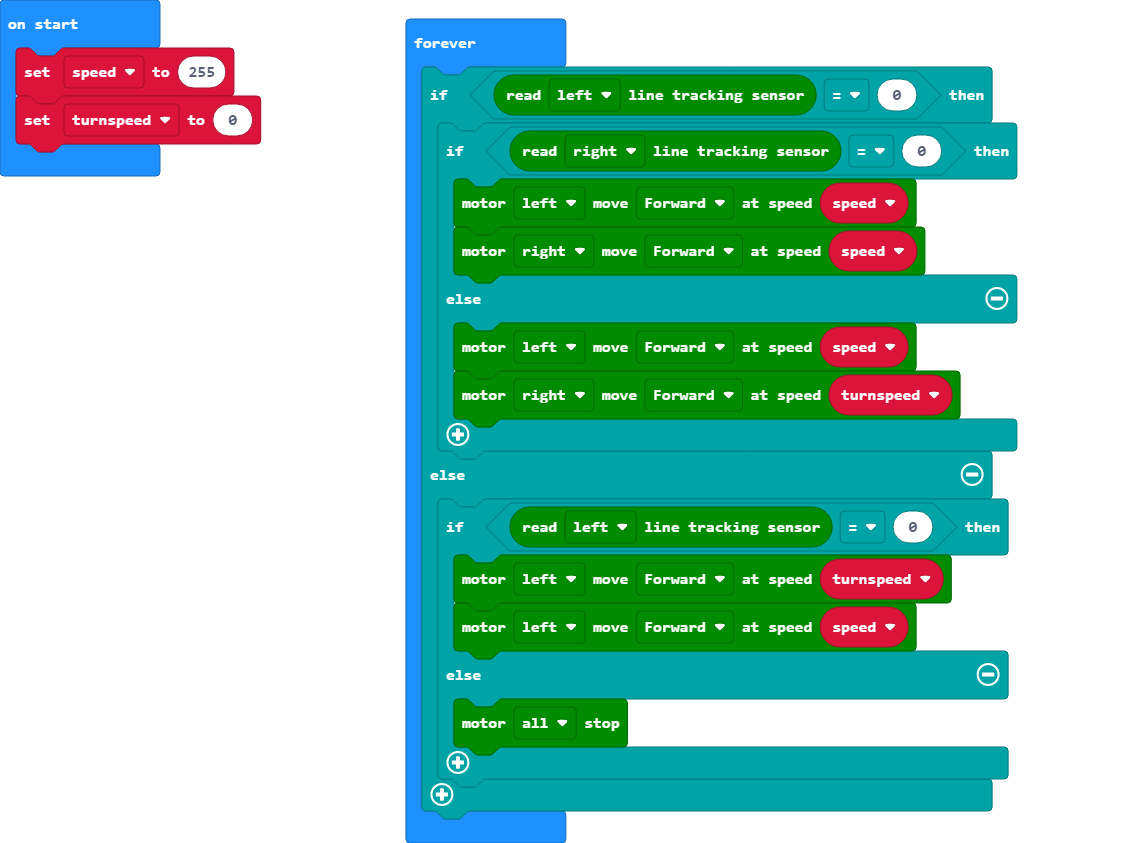
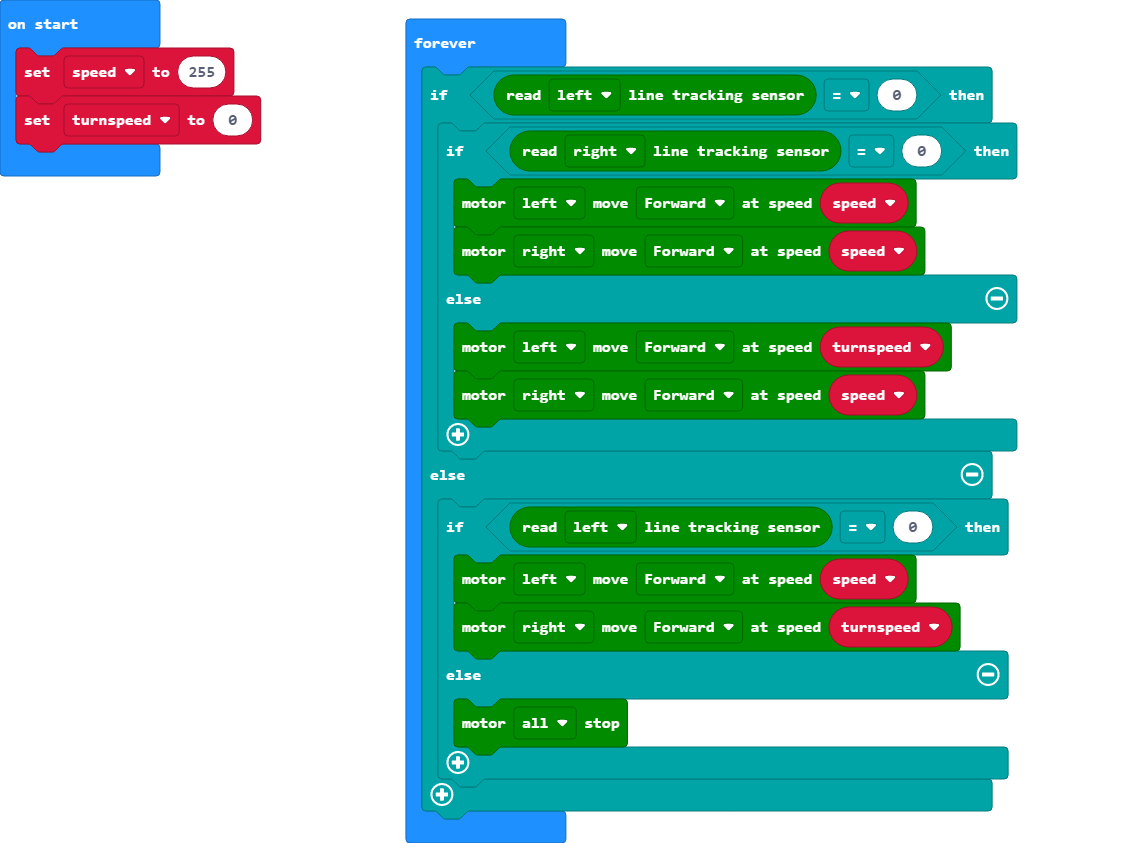
Update pxt.json, main.blocks, main.ts

Changed region(s): [[0.4683, 0.6477, 0.8742, 0.7711], [0.7493, 0.3701, 0.8742, 0.4935]]

diff --git a/main.ts b/main.ts
@@ -6,13 +6,13 @@ basic.forever(function () {
             maqueen.motorRun(maqueen.Motors.M1, maqueen.Dir.CW, speed)
             maqueen.motorRun(maqueen.Motors.M2, maqueen.Dir.CW, speed)
         } else {
-            maqueen.motorRun(maqueen.Motors.M1, maqueen.Dir.CW, speed)
-            maqueen.motorRun(maqueen.Motors.M2, maqueen.Dir.CW, turnspeed)
+            maqueen.motorRun(maqueen.Motors.M1, maqueen.Dir.CW, turnspeed)
+            maqueen.motorRun(maqueen.Motors.M2, maqueen.Dir.CW, speed)
         }
     } else {
         if (maqueen.readPatrol(maqueen.Patrol.PatrolLeft) == 0) {
-            maqueen.motorRun(maqueen.Motors.M1, maqueen.Dir.CW, turnspeed)
             maqueen.motorRun(maqueen.Motors.M1, maqueen.Dir.CW, speed)
+            maqueen.motorRun(maqueen.Motors.M2, maqueen.Dir.CW, turnspeed)
         } else {
             maqueen.motorStop(maqueen.Motors.All)
         }
